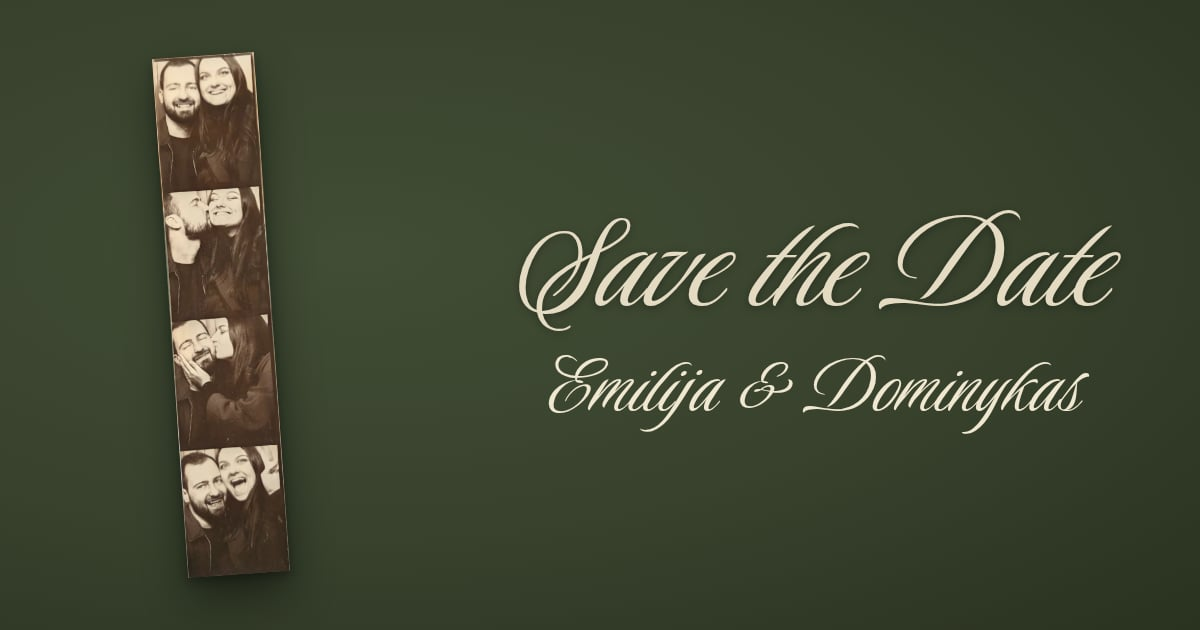
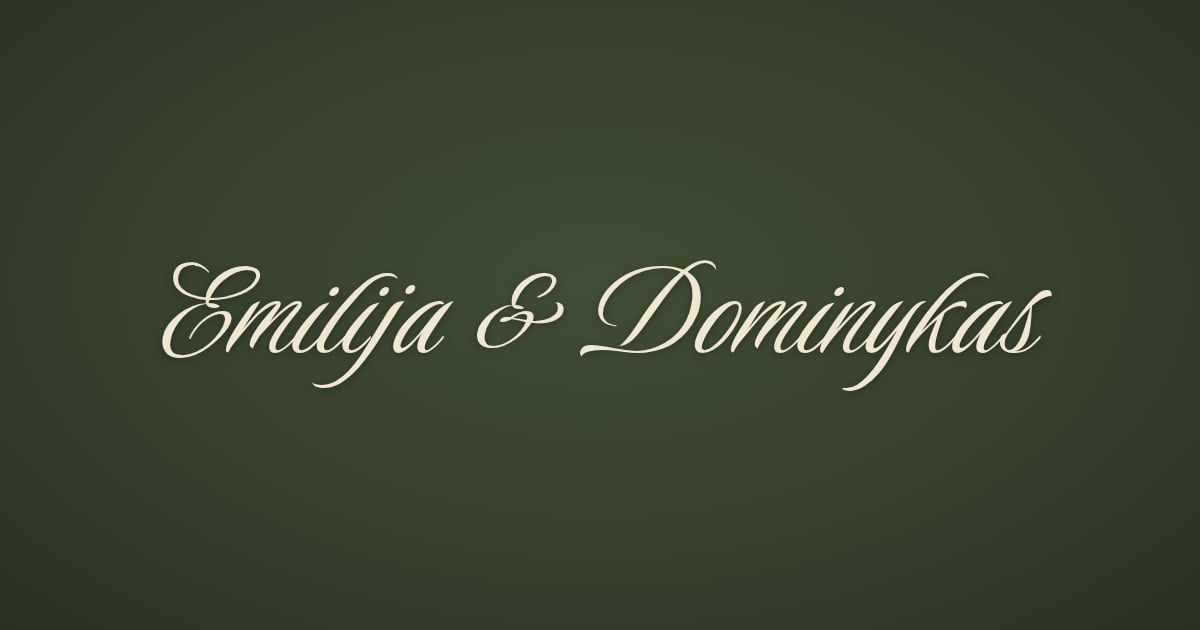
feat: link preview shows only the names; drop the description
- Preview image: names centred and larger; no photo strip, no "Save the Date".
- Remove og:description; the test asserts no description tag is present.

Claude-Session: https://claude.ai/code/session_01JQBcKaVCanwBUKB35rfq9U

Changed region(s): [[0.4008, 0.3317, 0.9558, 0.6937], [0.1233, 0.0603, 0.37, 0.8746], [0.185, 0.9048, 0.2158, 0.9349]]

diff --git a/scripts/og.html b/scripts/og.html
@@ -7,20 +7,12 @@
   html, body { width: 1200px; height: 630px; overflow: hidden; }
   body {
     position: relative;
-    background: radial-gradient(ellipse at 30% 40%, #424d35 0%, #37412c 55%, #2a3220 100%);
+    background: radial-gradient(ellipse at 50% 45%, #424d35 0%, #37412c 55%, #2a3220 100%);
     color: #efe7cf;
   }
-  .strip {
-    position: absolute; left: 170px; top: 55px; height: 520px; width: auto;
-    transform: rotate(-4deg);
-    box-shadow: 0 22px 44px rgba(0,0,0,.45), 0 4px 10px rgba(0,0,0,.3);
-  }
-  .text { position: absolute; left: 470px; right: 40px; top: 0; bottom: 0; display: flex; flex-direction: column; justify-content: center; align-items: center; text-align: center; }
-  .std { font: 400 156px/0.85 'Luxurious Script', cursive; color: #e4dbc2; text-shadow: 0 2px 8px rgba(0,0,0,.35); }
-  .names { font: 400 91px/0.923 'Luxurious Script', cursive; color: #efe7cf; margin-top: 14px; }
+  .text { position: absolute; inset: 0; display: flex; justify-content: center; align-items: center; text-align: center; }
+  .names { font: 400 150px/1 'Luxurious Script', cursive; color: #efe7cf; text-shadow: 0 2px 8px rgba(0,0,0,.35); }
 </style>
-<img class="strip" src="../site/assets/strip.webp" alt="">
 <div class="text">
-  <div class="std">Save the Date</div>
   <div class="names">Emilija &amp; Dominykas</div>
 </div>

diff --git a/tests/unit/site.test.js b/tests/unit/site.test.js
@@ -22,10 +22,10 @@ function walk(dir) {
     e.isDirectory() ? walk(join(dir, e.name)) : [join(dir, e.name)]);
 }
 
-test('og tags are complete, use SITE_URL and do not give the date away', () => {
+test('og tags are complete, use SITE_URL and show only the names', () => {
   assert.match(html, /<title>Emilija &amp; Dominykas<\/title>/);
   assert.equal(meta('property', 'og:title'), 'Emilija & Dominykas');
-  assert.equal(meta('property', 'og:description'), 'Save the Date');
+  assert.doesNotMatch(html, /og:description|name="description"/);
   assert.equal(meta('property', 'og:type'), 'website');
   assert.equal(meta('property', 'og:locale'), 'lt_LT');
   assert.equal(meta('property', 'og:url'), SITE_URL + '/');

diff --git a/site/index.html b/site/index.html
@@ -5,7 +5,6 @@
   <meta name="viewport" content="width=device-width, initial-scale=1, viewport-fit=cover">
   <title>Emilija &amp; Dominykas</title>
   <meta property="og:title" content="Emilija &amp; Dominykas">
-  <meta property="og:description" content="Save the Date">
   <meta property="og:type" content="website">
   <meta property="og:locale" content="lt_LT">
   <meta property="og:url" content="https://emilija-dominykas.netlify.app/">
